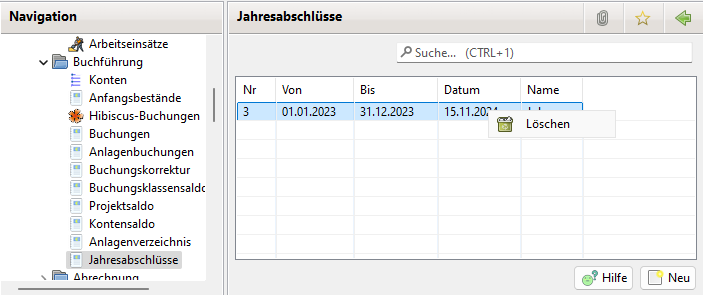
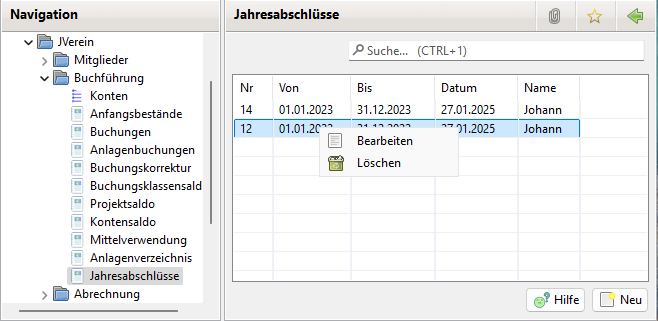
Fehler Korrekturen

Changed region(s): [[0.0, 0.0, 1.0, 1.0]]

diff --git a/v3.0.x/buchf/mittelverwendung.md b/v3.0.x/buchf/mittelverwendung.md
@@ -8,15 +8,13 @@ Anschließend sollte JVerein neu gestartet werden, damit der Menüpunkt "Mittelv
 
 ### Allgemeines
 
-Gemeinnützige Vereine müssen ihre Einnahmen (Finanzen und Sachen) im aktuellen und den zwei folgenden Jahren verwenden muss (zeitnahe Verwendung). Dieses müssen sie dem Finanzamt nachweisen. Sie dürfen aber Rücklagen und Vermögen bilden. Diese sind der zeitnahen Verwendung entzogen.
+Gemeinnützige Vereine müssen ihre Einnahmen (Finanzen und Sachen) im aktuellen und den zwei folgenden Jahren verwenden (zeitnahe Verwendung). Dieses müssen sie dem Finanzamt nachweisen. Sie dürfen aber Rücklagen und Vermögen bilden. Diese sind der zeitnahen Verwendung entzogen.
 
-Es gibt keine feste Vorgabe wie ein Mittelverwendung Nachweis auszuschauen hat. JVerein zeigt einen Report der den Mittel Zufluss und Abfluss und die zeitnah zu verwendenden Mittel bzw. verwendeten Mittel eines Jahres zeigt.
+Es gibt keine feste Vorgabe wie ein Mittelverwendung Nachweis auszuschauen hat. JVerein bietet zwei verschiedene Reports an:
+* Zufluss-basiert: Dieser Report listet den Verwendungsrückstand/-überhang und den Mittel Zufluss und Abfluss eines Geschäftsjahres. Dies ist ein fortgeschriebener Report, da er zugeflossene Mittel über zwei Jahre verfolgt. In diesem Zeitraum sind zugeflossene Mittel auszugeben
+* Saldo-Basiert: Dieser Report berechnet den Verwendungsrückstand/-überhang anhand der Kontensalden. Dies geschieht in Anlehnung an das Muster von Buchna. (Johannes Buchna (verst. 2013) war in der Oberfinanzdirektion Nordrhein-Westfalen tätig und war seit 1988 (Mit-)Autor des Werks „Gemeinnützigkeit im Steuerrecht“, in dem die Vorlage für eine Mittelverwendungsrechnung veröffentlich ist.)
 
-Aus dem Report kann man z.B. sehen ob die zu verwendenden Mittel (abzüglich Entnahmen aus Rücklagen) des Geschäftsjahres kleiner sind als die im Geschäftsjahr verwendeten Mittel. Falls ja wurde alles in diesem Jahr ausgegeben und die zeitnahe Mittelverwendung wäre erfüllt. Wird nicht alles ausgegeben muss es im folge Jahr passieren.
-
-Der Mittelverwendungsreport lässt sich über den entsprechenden Menüeintrag in der Navigation öffnen.
-
-Es werden zwei Versionen der Reports angeboten.
+Der Mittelverwendung lässt sich über den entsprechenden Menüeintrag in der Navigation öffnen.
 
 ### Mittelverwendungsreport (Zufluss-basiert)
 
@@ -25,13 +23,13 @@ Dieser Report listet folgende Informationen auf:
 * Ein in Position 1 enthaltener Rest des Verwendungsrückstand aus dem vorletzten Geschäftsjahr
 * Eine in Position 1 enthaltene zwanghafte satzungsgemäße Weitergabe von Mitteln
 * Insgesamt im aktuellen Geschäftsjahr zugeflossene Mittel
-* Zu verwendende Mittel. Dies ist die Summe der beiden vorhergehenden Posten. Diese Summe muss im aktuellen und folgenden Geschäftsjahr ausgegeben werden
+* Zu verwendende Mittel. Dies ist die Summe der beiden Positionen 1 und 4. Diese Summe muss im aktuellen und folgenden Geschäftsjahr ausgegeben werden
 * Im aktuellen Geschäftsjahr verwendete Mittel
 * Zugeführte Rücklagen (nach Rücklagenart getrennt) als Mittelabfluss
 * Entnommene Rücklagen (nach Rücklagenart getrennt) als Mittelzufluss
 * Verwendungsrückstand/-überhang zum aktuellen Zeitpunkt. Für das Finanzamt ist dieser Report zum Ende des aktuellen Geschäftsjahres zu erstellen
-* Ein der letzten Position enthaltener nicht verbrauchter Verwendungsrückstand aus dem letzten Geschäftsjahr
-* Eine der letzten Position enthaltene zwanghafte satzungsgemäße Weitergabe von Mitteln aus dem aktuellen Geschäftsjahr
+* Ein in der letzten Position enthaltener nicht verbrauchter Verwendungsrückstand aus dem letzten Geschäftsjahr
+* Eine in der letzten Position enthaltene zwanghafte satzungsgemäße Weitergabe von Mitteln aus dem aktuellen Geschäftsjahr
 
 PS: Die Endsummen werden aus den getätigten Buchungen berechnet. Sie sollten mit den Anfangsbeständen der Konten des nächsten Geschäftsjahres überein stimmen. Ist das nicht der Fall, dann sind einige Buchungen nicht richtig verbucht worden z.B. wegen fehlender Buchungsart.
 
@@ -63,23 +61,29 @@ Nach Abzug der verwendeten Mittel vom Gesamtvermögen ergibt sich der neue Verwe
 
 ![](img/MittelverwendungSaldoView.png)
 
+Ist in Administration->Einstellungen->Buchführung die Checkbox "Listen: Buchungsarten ohne Buchung unterdrücken" ausgewählt werden Rücklagenarten ohne Saldo im Report nicht angezeigt.
+
+Ist in Administration->Einstellungen->Anzeige die Checkbox "Summen Anlagenkonto in Kontosaldo" ausgewählt werden die einzelnen Anlagenkonten nicht aufgelistet, sondern nur die Gesamtsumme über alle Anlagenkonten.
+
+Dieser Report enthält eine Spalte Kommentar. Hier wird die erste Zeile aus dem Kommentarfeld des Kontos ausgegeben. Damit kann man steuerrelevante Information ausgeben. Z.B. kann man ausgeben ob die Anlage nutzungsgebunden ist oder zweckfremd eingesetzt wird.
+
 Der Report kann über die Buttons CSV und PDF ausgegeben werden.
 
 ### Annahmen
 
-Für eine korrekte Berechnung der Daten des Reports sind folgende Annahmen getroffen:
+Für eine korrekte Berechnung der Daten der Reports sind folgende Annahmen getroffen:
 * Alle Konten auf denen vorhandene Mittel (Geld) verwaltet ist, ist die Kontoart Geldkonto zugewiesen
-* Konten für Schulden wie z.B. Darlehen, Kredite etc. sind als Verbindlichkeitskonto gekennzeichnet
+* Konten für Schulden wie z.B. Darlehen, Kredite etc. sind als Fremdkapital gekennzeichnet
 * Anlagenkonten ist der korrekte Anlagenzweck zugeordnet (entweder als nutzungsgebundene Anlage oder zweckfremde Anlage)
 * Rücklagen sind auf Rücklagenkonten verbucht
 * Buchungen muss die korrekte Buchungsart mit korrekter Klassifikation als Einnahme, Ausgabe oder Umbuchung zugewiesen sein
 
 Einnahmen und Ausgaben werden wie folgt berechnet:
-* Zu den Einnahmen zählen alle Buchungen der Art Einnahme die auf Geldkonten oder allen Anlagenkonten (Sachspenden) eingehen
+* Zu den Einnahmen zählen alle Buchungen der Art Einnahme die auf Geldkonten oder zweckfremden Anlagenkonten (Sachspenden) eingehen
 * Zu den Ausgaben zählen alle Buchungen der Art Ausgabe die von Geldkonten oder zweckfremden Anlagen abgehen
 * Umbuchungen innerhalb Geldkonten, innerhalb zweckfremden Anlagen und zwischen beiden gelten als Umschichtung und sind damit keine Mittelzuflüsse und Abflüsse
-* Umbuchungen zu Verbindlichkeitskonten (Darlehensauszahlung, Tilgung) und nutzungsgebundenen Anlagenkonten (Anschaffung einer Anlage) werden berücksichtigt. Dazu werden positive Umbuchungen auf diesen Konten als Mittelabfluss und negative Umbuchungen als Mittelzufluss betrachtet. Es wird davon ausgegangen, dass alle Umbuchungen auf diesen Konten von Geldkonten kommen
-* Es darf also keine Umbuchungen innerhalb Verbindlichkeitskonten und nutzungsgebundenen Anlagenkonten geben
+* Umbuchungen zu Fremdkapital Konten (Darlehensauszahlung, Tilgung) und nutzungsgebundenen Anlagenkonten (Anschaffung einer Anlage) werden berücksichtigt. Dazu werden positive Umbuchungen auf diesen Konten als Mittelabfluss und negative Umbuchungen als Mittelzufluss betrachtet. Es wird davon ausgegangen, dass alle Umbuchungen auf diesen Konten von Geldkonten kommen
+* Es darf also keine Umbuchungen innerhalb Fremdkapital Konten und nutzungsgebundenen Anlagenkonten geben
 
 Hinweise:
 
@@ -93,13 +97,13 @@ Es ist darauf zu achten, dass die Gegenbuchung die Buchungsart Einnahme hat. Hä
 
 Die Aufnahme eines Darlehens oder Kredit wird als Mittelzufluss betrachtet. Diese Gelder unterliegen der zeitnahen Mittelverwendung. Sie sind wie folgt zu buchen:
 * Auf dem Geldkonto (Kontoart Geldkonto) wird die Darlehenssumme (positiv) mit einer Buchungsart "Umbuchung" gebucht
-* Auf dem Darlehenskonto (Kontoart Verbindlichkeitskonto) wird die Darlehenssumme (negativ) mit einer Buchungsart "Umbuchung" gebucht
+* Auf dem Darlehenskonto (Kontoart Fremdkapital) wird die Darlehenssumme (negativ) mit einer Buchungsart "Umbuchung" gebucht
 
 ### Tilgung von Darlehen, Kredite etc.
 
 Die Tilgung eines Darlehens oder Kredit wird als Mittelabfluss betrachtet. Sie sind wie folgt zu buchen:
 * Auf dem Geldkonto (Kontoart Geldkonto) wird der Tilgungsbetrag (negativ) mit einer Buchungsart "Umbuchung" gebucht
-* Auf dem Darlehenskonto (Kontoart Verbindlichkeitskonto) wird der Tilgungsbetrag (positiv) mit einer Buchungsart "Umbuchung" gebucht
+* Auf dem Darlehenskonto (Kontoart Fremdkapital) wird der Tilgungsbetrag (positiv) mit einer Buchungsart "Umbuchung" gebucht
 
 ### Ein Mitglied spendet ein gegebenes Darlehen oder Kredit
 
@@ -126,7 +130,7 @@ Abschreibungen werden auf dem Anlagenkonto als Ausgabe gebucht. Sie fliesen nich
 
 ### Anschaffung einer zweckfremden Anlage
 
-Anschaffungen die nicht dem Zweck des Vereins dienen aber zur Mittelbeschaffung dienen, also Anschaffungen in der Vermögensverwaltung oder im wirtschaftlichen Geschäftsbetrieb, werden nicht als Mittelabfluss bewertet. Diese unterliegen also der zeitnahen Mittelverwendung. Diese Konten werden also wie Geldkonten behandelt. 
+Anschaffungen die nicht dem Zweck des Vereins dienen aber zur Mittelbeschaffung dienen, also Anschaffungen in der Vermögensverwaltung oder im wirtschaftlichen Geschäftsbetrieb, werden nicht als Mittelabfluss bewertet. Diese unterliegen also der zeitnahen Mittelverwendung. Diese Konten werden wie Geldkonten behandelt. 
 
 Diese Anlagen dürfen nur aus vorhandenen freien Rücklagen oder aus dem Vermögen finanziert werden. Es müssen also freie Rücklagen oder Vermögen in dieser Höhe vorhanden sein. Die Buchung erfolgt so:
 * Es wird ein Anlagenkonto mit dem Anlagenzweck "Zweckfremde Anlage" angelegt
@@ -148,11 +152,11 @@ Es gibt jetzt wohl zwei Ansätze:
 
 Weg 1:
 * Da die Anlage aus freier Rücklage oder Vermögen finanziert wurde reduziert sich das Vermögen. Darum reduziert man auch die freie Rücklage bzw. das Vermögen durch eine gleich hohe Ausgabenbuchung
-* Bei Verkauf kann man dann vermutlich die Differenz aus Buchwert und Verkaufserlös wieder gutschreiben
+* Bei Verkauf kann man dann vermutlich die Differenz aus Buchwert und Verkaufserlös wieder dem Vermögen gutschreiben
 
 Weg 2:
 * Die freie Rücklage oder das Vermögen wird nicht reduziert
-* Bei Verkauf kann man dann vermutlich dann nur die Differenz aus Anschaffungskosten und Verkaufserlös wieder gutschreiben
+* Bei Verkauf kann man dann vermutlich dann nur die Differenz aus Anschaffungskosten und Verkaufserlös wieder dem Vermögen gutschreiben
 
 Der Weg 2 führt zu einem Mittelverwendungsüberhang weil die vorhandenen Mittel reduziert wurden aber nicht die Rücklagen bzw. das Vermögen.
 

diff --git a/v3.0.x/notes.md b/v3.0.x/notes.md
@@ -7,13 +7,13 @@ Mit dieser Version wird die Versionsnummerierung auf die Art MAJOR.MINOR.PATCH u
 * MINOR wird bei neuer Funktionalität hochgezählt 
 * PATCH wird bei Fehlerkorrekturen hochgezählt
 
-Die Idee ist, zukünftig auch in kürzeren Abständen reine Bugfixes freizugeben bei denen keine neuen Funktionen enthalten sind.
+Die Idee ist, zukünftig auch in kürzeren Abständen reine Bugfixes freizugeben, bei denen keine neuen Funktionen enthalten sind.
 
 Ab dieser Version wird auch eine für jede Version spezifische Dokumentation angelegt. Damit können Anwender einer älteren Version auf ihre passende Dokumentation zugreifen. Bisher war die Dokumentation immer nur für die neueste Version vorhanden.
 
 **Die Version 3.0.0 ist eine neue MAJOR Version und damit nicht kompatibel mit den Vorgängern. Ist man also auf diese Version umgestiegen kann man mit der migrierten Datenbasis nicht mehr zu einer älteren Version zurück wechseln.** 
 
-**Es ist also empfohlen, eine Kopie der aktuelle Datenbank anzulegen. Will man später wieder auf die alte Version zurück, kann man die gesicherte Datenbank verwenden.**
+**Es ist also empfohlen, eine Kopie der aktuellen Datenbank anzulegen. Will man später wieder auf die alte Version zurück, kann man die gesicherte Datenbank verwenden.**
 
 ## The Big Ones
 
@@ -21,7 +21,7 @@ Ab dieser Version wird auch eine für jede Version spezifische Dokumentation ang
 
 In Version 3.0.0 von JVerein wurde das Konzept für Rechnungen komplett überarbeitet.
 
-Rechnungen werden jetzt nicht mehr beim Drucken generiert sondern werden wie Spendenbescheinigungen in der Datenbank gespeichert. Eine Rechnung ist dabei genau einer Sollbuchung zugeordnet. Um dennoch mehrere Forderungen wie z.B. Beiträge und Zusatzbeträge zu einer Rechnung zusammen fassen zu können wurde das Konzept der Sollbuchungspositionen eingeführt.
+Rechnungen werden jetzt nicht mehr beim Drucken generiert, sondern werden wie Spendenbescheinigungen in der Datenbank gespeichert. Eine Rechnung ist dabei genau einer Sollbuchung zugeordnet. Um dennoch mehrere Forderungen wie z.B. Beiträge und Zusatzbeträge zu einer Rechnung zusammen fassen zu können wurde das Konzept der Sollbuchungspositionen eingeführt.
 
 In einem Abrechnungslauf lassen sich jetzt Beiträge und Zusatzbeträge nicht nur für Lastschriften sondern auch für Sollbuchungen zusammen fassen. Die einzelnen Beiträge und Zusatzbeträge bilden dabei die Sollbuchungspositionen, wobei Positionen mit gleicher Buchungsart zu einer Position zusammen gefasst werden.
 
@@ -37,18 +37,20 @@ Siehe [Rechnung](mitglieder/rechnung.md).
 
 * PDFs für Spendenbescheinigungen werden verschlüsselt und sind damit schreibgeschützt aber lesbar und druckbar
 * Die gedruckte Unterschrift ist jetzt auch bei Spendenbescheinigung Formularen verfügbar. Sie kann als Formularfeld platziert werden
-* Die gedruckte Unterschrift wird nur bei reinen Geldspenden ausgegeben. Sachspenden und Geldspenden mit Verzicht auf Aufwendungen müssen weiterhin laut steuerlichen Vorgaben per Hand unterschrieben werden
+* Die gedruckte Unterschrift wird nur bei reinen Geldspenden ausgegeben. Sachspenden und Geldspenden mit Verzicht auf Erstattung von Aufwendungen müssen weiterhin, laut steuerlichen Vorgaben, per Hand unterschrieben werden
 * Spendenbescheinigungen werden jetzt auf den Zahler ausgestellt. Zahlt z.B. ein anderes Mitglied (Vollzahler im Familienverband) oder ein alternativer Kontoinhaber den Beitrag oder Zusatzbeträge, so wird in der Sollbuchung neben dem Mitglied auch der Zahler gespeichert. Die Spendenbescheinigung für Buchungen, die dieser Sollbuchung zugewiesen sind, wird dann auf den eingetragenen Zahler ausgestellt und nicht mehr auf das Mitglied selbst
 
 ### Rücklagen Konten
 
-Für die Konten wurden neue Kontoarten für Rüchlagen und Vermögen eingeführt.
+Für die Konten wurden neue Kontoarten für Rücklagen und Vermögen eingeführt.
 
-Damit kann ein Verein seine eingestellten Rücklagen in JVerein hinterlegen. Bucht ein Verein Rücklagen auf ein eigenes Bankkonto so ist dieses weiter als Geldkonto zu führen. Man könnte aber die Rücklagen zusätzlich in Rücklagenkonten führen um sie weiter aufzuschlüsseln. Auch werden die separaten Konten bei der Mittelverwendung benötigt.
+Damit kann ein Verein seine eingestellten Rücklagen in JVerein hinterlegen. Bucht ein Verein Rücklagen auf ein eigenes Bankkonto so ist dieses weiter als Geldkonto zu führen. Man könnte aber die Rücklagen zusätzlich in Rücklagenkonten führen um sie weiter aufzuschlüsseln. 
+
+Diese separaten Konten werden bei der Mittelverwendungsrechnung (siehe [Mittelverwendung](buchf/mittelverwendung.md)) benötigt.
 
 Buchungen auf diesen Konten gehen nicht in das Buchungsklassensaldo und Kontensaldo ein, weil die Buchungen bereits in regulären Konten enthalten sind. Die Konten werden im Kontensaldo separat aufgelistet.
 
-### Mittelverwendung
+### Mittelverwendungsreport
 
 * Es gibt eine neue Ansicht "Mittelverwendung" (siehe [Mittelverwendung](buchf/mittelverwendung.md))
 * Diese Funktionalität muss in Administration->Einstellungen->Anzeige aktiviert werden
@@ -59,11 +61,11 @@ Buchungen auf diesen Konten gehen nicht in das Buchungsklassensaldo und Kontensa
 
 * Der Menüeintrag Abrechnung wurde aus dem Navigationsbaum entfernt. Ein Abrechnungslauf wird jetzt über den Button "Neu" im View der Abrechnungsläufe erstellt
 * Der Dialog für den Abrechnungslauf wurde bezüglich der neuen Rechnung Funktionalität erweitert
-* Bei einem Abrechnungslauf werden die Lastschrift Bedingungen geprüft. Es muss ein Lastschriftmandat vorhanden sein und falls das Mandat älter als 3 Jahre ist müssen in den letzten drei Jahren Lastschriften durchgeführt worden sein. JVerein prüft hierzu ob entsprechende Lastschriften existieren. Wurden diese aber gelöscht oder ist man von einem anderen Tool nach JVerein gewechselt, dann gibt es hier noch keine Lastschriften obwohl welche durchgeführt wurden. Mit der Option "SEPA-Check temporär deaktivieren" kann der Check dann temporär ausgeschaltet werden
+* Bei einem Abrechnungslauf werden die Lastschrift Bedingungen geprüft. Es muss ein Lastschriftmandat vorhanden sein und falls das Mandat älter als 3 Jahre ist, müssen in den letzten drei Jahren Lastschriften durchgeführt worden sein. JVerein prüft hierzu ob entsprechende Lastschriften existieren. Wurden diese aber gelöscht oder ist man von einem anderen Tool nach JVerein gewechselt, dann gibt es hier noch keine Lastschriften, obwohl welche durchgeführt wurden. Mit der Option "SEPA-Check temporär deaktivieren" kann der Check dann temporär ausgeschaltet werden
 
 #### Verrechnungskonto für Lastschriften
 
-* Bei Lastschriften wird beim Abrechnungslauf für die erzeugten Buchungen nicht mehr das Konto aus allgemeinen Einstellung des Vereins genommen. Es lässt sich jetzt unter Administration->Einstellungen->Abrechnung setzten
+* Bei Lastschriften wird beim Abrechnungslauf für die erzeugten Buchungen nicht mehr das Konto aus den allgemeinen Einstellung des Vereins genommen. Es lässt sich jetzt unter Administration->Einstellungen->Abrechnung setzten
 
 #### Hibiscus Buchungsimport
 
@@ -87,7 +89,7 @@ Buchungen auf diesen Konten gehen nicht in das Buchungsklassensaldo und Kontensa
 
 #### Eigenschaften bei Mitgliedern ändern
 
-* Mit dem Eigenschaften Dialog beim Mitglied lassen sich jetzt auch Eigenschaften editieren die in einer Eigenschaften Gruppe mit Pflicht oder maximal 1 konfiguriert sind
+* Mit dem Eigenschaften Dialog aus dem Kontextmenü von ausgewählten Mitgliedern lassen sich jetzt auch Eigenschaften editieren die in einer Eigenschaften Gruppe mit Pflicht oder maximal 1 konfiguriert sind
 
 #### Export/Import von Formularen
 
@@ -111,7 +113,7 @@ Buchungen auf diesen Konten gehen nicht in das Buchungsklassensaldo und Kontensa
 
 #### Eine Buchung mehreren Sollbuchungen zuordnen
 
-* Es ist jetzt möglich im Dialog zu Zuordenen von Sollbuchungen mehrere Sollbuchungen auszuwählen. Die Buchung wird dann entsprechend der Sollbuchungspositionen in eine Splitbuchung umgewandelt. Die einzelnen Splitbuchungen werden dann zugeordnet
+* Es ist jetzt möglich im Dialog zur Zuordnung von Sollbuchungen mehrere Sollbuchungen auszuwählen. Die Buchung wird dann entsprechend der Sollbuchungspositionen in eine Splitbuchung umgewandelt. Die einzelnen Splitbuchungen werden dann zugeordnet
 
 
 ## Kleinere Korrekturen und Erweiterungen

diff --git a/v3.0.x/buchf/konten.md b/v3.0.x/buchf/konten.md
@@ -57,7 +57,7 @@ Eine Unterscheidung von Geldkonten und Fremdkapital ist nur nötig wenn das Feat
 Im Konto View können die Daten der Kontos editiert werden.
 
 Folgende Daten können eingegeben werden:
-* Kontoart: Geldkonto oder Verbindlichkeitskonto
+* Kontoart: Geldkonto oder Fremdkapital
 * Nummer
 * Bezeichnung
 * Eröffnungsdatum
@@ -71,7 +71,7 @@ Die weiteren Felder unter Anlagenkonto Daten sind hier nicht relevant.
 
 ## Rücklagenkonten
 
-Gemeinnützige Vereine müssen ihre Einnahmen im aktuellen und den zwei folgenden Jahren ausgegeben haben (zeitnahe Verwendung). Dieses müssen sie dem Finanzamt nachweisen. Sie dürfen aber Rücklagen bilden. Diese sind der zeitnahen Verwendung entzogen.
+Gemeinnützige Vereine müssen ihre Einnahmen im aktuellen und den zwei folgenden Jahren ausgegeben haben (zeitnahe Verwendung). Dieses müssen sie dem Finanzamt nachweisen, siehe  [Mittelverwendung](mittelverwendung.md). Sie dürfen aber Rücklagen bilden. Diese sind der zeitnahen Verwendung entzogen.
 
 Zur Dokumentation der eingestellten Rücklagen wurden die Kontoarten für Rücklagen eingeführt:
 * Zweckgebundene Rücklage nach § 62 Abs. 1 Nr. 1 AO
@@ -99,7 +99,7 @@ Diese Konten dienen nur zur Dokumentation der vorhanden Rücklagen. Sie werden a
 
 ## Anlagenkonten
 
-Anlagenkonten sind dazu gedacht Abschreibungen durchzuführen und ein Anlagenverzeichnis nach steuerlichen Gesichtspunkten zu erstellen.
+Anlagenkonten sind dazu gedacht Abschreibungen durchzuführen und ein Anlagenverzeichnis nach steuerlichen Gesichtspunkten zu erstellen siehe  [Anlagenverzeichnis](anlagenverzeichnis.md).
 
 Hierbei wird nach folgenden Anlagen unterschieden:
 * Wirtschaftsgüter mit einem Anschaffungswert von unter 250€ (Netto). Diese werden als Ausgabe gebucht und **nicht** als Anlagenkonto geführt
@@ -132,7 +132,7 @@ Folgende Anlagen spezifische Daten können eingegeben werden:
 *  Nutzungsdauer: Dauer der AfA. Wert Wert ist 0 bei sofortiger Abschreibung und sonst die Dauer der Abschreibung
 *  Anlagen Restwert: Restwert der Anlage der nach der Abschreibungsdauer übrig bleiben soll z.B. wenn die Anlage auch nach der Abschreibung weiter benutzt werden soll. Der Default Wert kann in den Einstellungen gesetzt werden. In JVerein kann auch eine Anlage mit Restwert 0 im Anlagenverzeichnis geführt werden. Ein Anlagenkonto bleibt solange im Anlagenverzeichnis bis es aufgelöst wird
 *  AfA Mode: Modus für die Behandlung der Abschreibung (siehe weiter unten)
-*  Anlagenzweck: Dieses Attribut wird nur angezeigt wenn [Mittelverwendung](mittelverwendung.md) aktiviert wurde. Hier wird konfiguriert, ob die Anlage nutzungsgebunden ist oder zweckfremd
+*  Anlagenzweck: Dieses Attribut wird nur angezeigt wenn [Mittelverwendung](mittelverwendung.md) aktiviert wurde. Hier wird konfiguriert, ob die Anlage nutzungsgebunden ist oder zweckfremd verwendet wird
 
 ## Einstellungen
 

diff --git a/v3.0.x/abrech/abrechnung.md b/v3.0.x/abrech/abrechnung.md
@@ -88,11 +88,13 @@ Alle Abbuchungen eines Mitgliedes \(Beträge und Zusatzbeträge\) werden in eine
 
 #### Kompakte Abbuchung(en)
 
-Alle Abbuchungen eines Mitgliedes \(Beträge und Zusatzbeträge\) werden in eine Abbuchung zusammengefasst.
+Alle Abbuchungen eines Mitgliedes \(Beträge und Zusatzbeträge\) werden in eine Lastschrift zusammengefasst.
 
 #### SEPA-Check temporär deaktivieren
 
-Bei einem Abrechnungslauf werden die Lastschrift Bedingungen geprüft. Es muss ein Lastschriftmandat vorhanden sein und falls das Mandat älter als 3 Jahre ist müssen in den letzten drei Jahren Lastschriften durchgeführt worden sein. JVerein prüft hierzu ob entsprechende Lastschriften in JVerein existieren. Wurden diese aber gelöscht oder ist man von einem anderen Tool nach JVerein gewechselt, dann gibt es hier noch keine Lastschriften, obwohl welche durchgeführt wurden. Mit der Option "SEPA-Check temporär deaktivieren" kann der Check dann temporär ausgeschaltet werden.
+Bei einem Abrechnungslauf werden die Lastschrift Bedingungen geprüft. Es muss ein Lastschriftmandat vorhanden sein und falls das Mandat älter als 3 Jahre ist, müssen in den letzten drei Jahren Lastschriften durchgeführt worden sein. JVerein prüft hierzu ob entsprechende Lastschriften existieren.
+
+Wurden diese aber gelöscht oder ist man von einem anderen Tool nach JVerein gewechselt, dann gibt es hier noch keine Lastschriften, obwohl welche durchgeführt wurden. Mit der Option "SEPA-Check temporär deaktivieren" kann der Check dann temporär ausgeschaltet werden.
 
 #### Lastschrift-PDF erstellen
 
@@ -112,7 +114,7 @@ Alternativ kann auf eine Ausgabe verzichtet werden z.B. falls keiner der Mitglie
 
 #### Rechnung(en) erstellen
 
-Hier lässt sich auswählen ob für die generierten Sollbuchung aus gleich Rechnungen generiert werden sollen.
+Hier lässt sich auswählen ob für die generierten Sollbuchungen auch gleich Rechnungen generiert werden sollen.
 
 #### Rechnung Formular
 

diff --git a/v3.0.x/mitglieder/mitgliedskonto.md b/v3.0.x/mitglieder/mitgliedskonto.md
@@ -8,7 +8,7 @@ Zur Nutzung der Sollbuchungen ist keine extra Aktivierung notwendig.
 
 Sollbuchungen d.h. Beiträge, Zusatzbeträge etc. dienen dazu den Kontostand von Mitgliedern zu führen. Durch die Zuweisung von Istbuchungen kann der Kontostand ausgeglichen werden. 
 
-Die [Abrechnung](../abrech/abrechnung.md) schreibt Sollbuchungen zu Mitgliedsbeiträgen und Zusatzbeträge in die Tabelle [Mitgliedskonto](content/mitgliedskonto.md) des Mitglieds.
+Die [Abrechnung](../abrech/abrechnung.md) schreibt Sollbuchungen zu Mitgliedsbeiträgen und Zusatzbeträgen in die Tabelle [Mitgliedskonto](content/mitgliedskonto.md) des Mitglieds.
 
 ### Erstellung 
 
@@ -20,7 +20,7 @@ Die Zusatzbeträge können erstellt werden
 
 ## Liste der Sollbuchungen <a id="mitgliedskontouebersicht"></a>
 
-Es gibt eine zentrale Übersicht über alle Sollbuchungen. Die Sollbuchungen können über einen Zeitraum oder über einen Namen, bzw. Namensfragment gefiltert werden. Zusätzlich kann angegeben werden, ob nur Sollbuchungen mit Differenzen zwischen Soll und Ist \(Offene Posten oder Überzahlungen\) angezeigt werden.
+Es gibt eine zentrale Übersicht über alle Sollbuchungen. Die Sollbuchungen können über einen Zeitraum oder über einen Namen der Mitglieds oder des Zahlers, bzw. Namensfragment gefiltert werden. Zusätzlich kann angegeben werden, ob nur Sollbuchungen mit Differenzen zwischen Soll und Ist \(Offene Posten oder Überzahlungen\) angezeigt werden.
 
 Zudem lässt sich filtern ob das Mitglied per Lastschrift zahlt oder eine Mail Adresse hat. Letzteres ist interessant wenn die Rechnungen bzw. Mahnungen per Mail versendet werden sollen.
 

diff --git a/v3.0.x/mitglieder/rechnung.md b/v3.0.x/mitglieder/rechnung.md
@@ -6,9 +6,9 @@ Zur Nutzung der Rechnungen ist keine extra Aktivierung notwendig.
 
 ### Allgemeines
 
-In Version 2.9.0 von JVerein wurde das Konzept für Rechnungen komplett überarbeitet.
+In Version 3.0.0 von JVerein wurde das Konzept für Rechnungen komplett überarbeitet.
 
-Rechnungen werden jetzt nicht mehr beim Drucken generiert sondern werden wie Spendenbescheinigungen in der Datenbank gespeichert. Eine Rechnung ist dabei genau einer Sollbuchung zugeordnet. Um dennoch mehrere Forderungen wie z.B. Beiträge und Zusatzbeträge zu einer Rechnung zusammen fassen zu können wurde das Konzept der Sollbuchungspositionen eingeführt.
+Rechnungen werden jetzt nicht mehr beim Drucken generiert, sondern werden wie Spendenbescheinigungen in der Datenbank gespeichert. Eine Rechnung ist dabei genau einer Sollbuchung zugeordnet. Um dennoch mehrere Forderungen wie z.B. Beiträge und Zusatzbeträge zu einer Rechnung zusammen fassen zu können wurde das Konzept der Sollbuchungspositionen eingeführt.
 
 In einem Abrechnungslauf lassen sich jetzt Beiträge und Zusatzbeträge nicht nur für Lastschriften sondern auch für Sollbuchungen zusammen fassen. Die einzelnen Beiträge und Zusatzbeträge bilden dabei die Sollbuchungspositionen, wobei Positionen mit gleicher Buchungsart zu einer Position zusammen gefasst werden.
 
@@ -40,7 +40,7 @@ Durch einen Rechtsklick auf einen Abrechnungslauf öffnet sich ein Kontextmenü 
 
 ## Rechnung
 
-Mit einem Klick auf Anzeigen wird die Rechnung angezeigt.
+Mit einem Doppelklick auf die Rechnung oder Klick auf Anzeigen wird die Rechnung angezeigt.
 
 ![](img/RechnungView.png)
 

diff --git a/v3.0.x/buchf/jahresabschluss.md b/v3.0.x/buchf/jahresabschluss.md
@@ -14,6 +14,8 @@ Damit ein Jahresabschluss verbucht werden kann, müssen folgende Bedingungen erf
 
 Über das Kontextmenü kann jeweils nur der neuste Jahresabschluss gelöscht werden.
 
+Über den Bearbeiten Button lassen sich die Jahresabschlüsse anzeigen bzw. editieren. Gleiches gilt für eine Doppelklick auf einen Eintrag in der Tabelle.
+
 ## Jahresabschluss
 
 Durch eine Klick auf Neu kann ein neuer Jahresabschluss vorgenommen werden:
@@ -28,8 +30,11 @@ Tipp: Die Checkbox "Anfangsbestände Folgejahr" sollte aktiviert werden. Damit w
 
 Ist in den [Einstellungen](../administration/einstellungen/anzeige.md) der Ort der Abschreibung auf "Checkbox in Jahresabschluss" konfiguriert, wird hier auch die Checkbox "Erzeuge Abschreibungen" sichtbar. Ist sie gewählt, werden automatisch die AfA Abschreibungen generiert.
 
+**PS: Die AfA Buchungen sind in der angezeigten Tabelle noch nicht enthalten, da sie erst beim Speichern generiert werden.**
+
 Die Felder:
 * Rest Verwendungsrückstand Vorjahr
 * Zwanghafte satzungsgemäße Weitergabe von Mitteln
+
 werden nur angezeigt wenn [Mittelverwendung](mittelverwendung.md) aktiviert ist.
 
